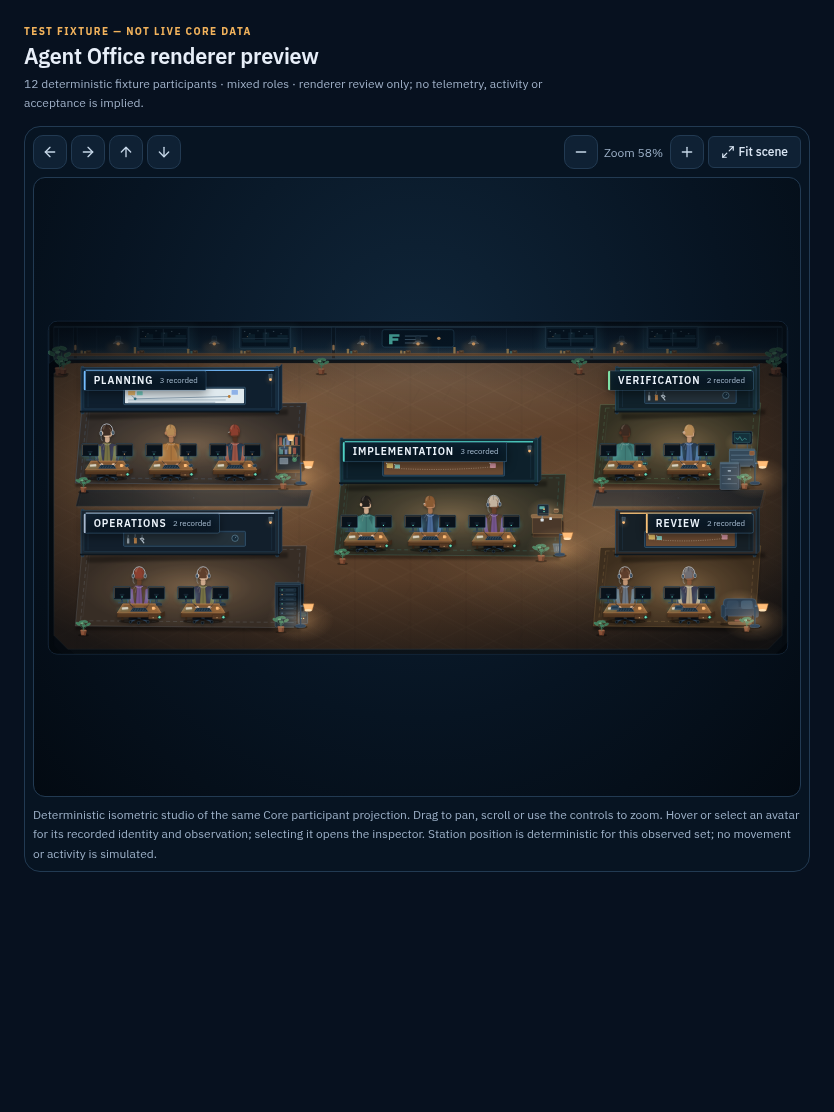
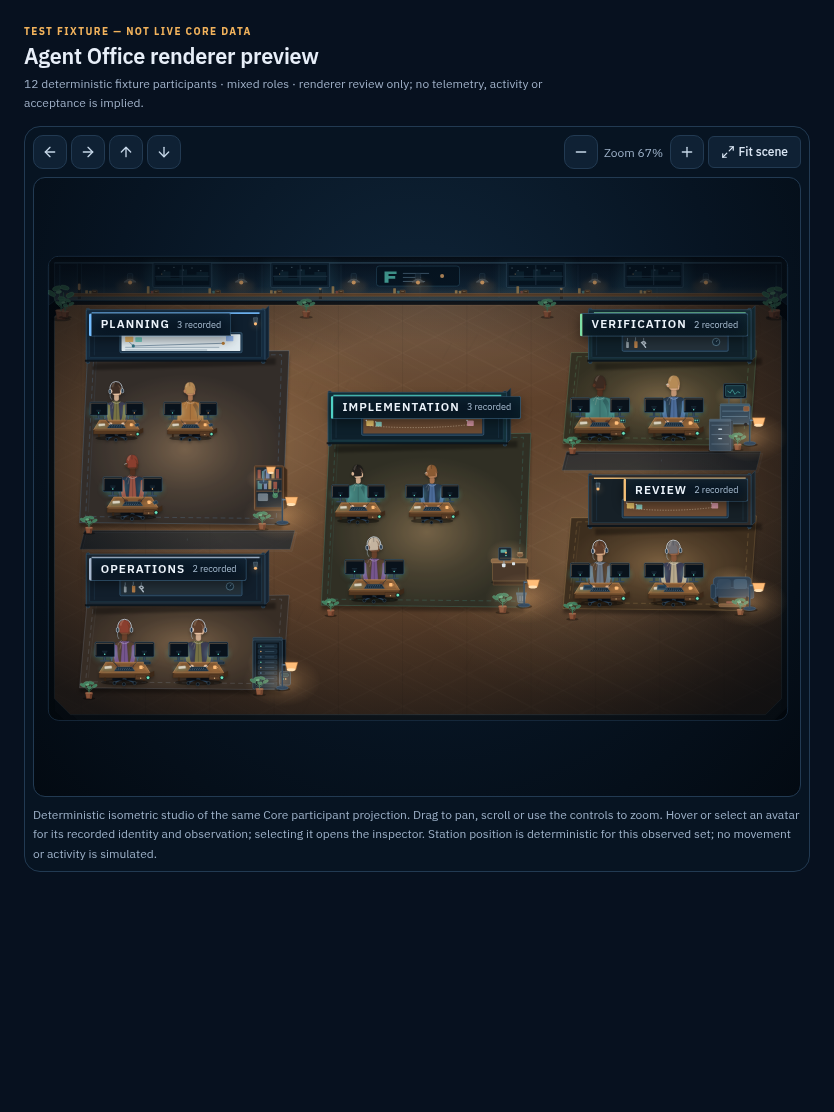
feat(office): add depth to Agent Office crew layout

Changed region(s): [[0.0624, 0.214, 0.9353, 0.6421]]

diff --git a/office/src/components/office/officeSceneLayout.ts b/office/src/components/office/officeSceneLayout.ts
@@ -88,6 +88,8 @@ export interface OfficeSlot {
   anchorY: number;
   /** 1-based depth order; higher values render in front. */
   depth: number;
+  /** Figure scale from the back to front row of its workstation cluster. */
+  perspectiveScale: number;
 }
 
 export interface OfficeZone {
@@ -170,11 +172,12 @@ function clusterOffset(index: number, pitch: number): number {
 
 function groupMetrics(memberCount: number): ZoneMetrics {
   const count = Math.max(1, memberCount);
-  // Small crews sit at one long bench; larger crews use a wide bullpen with
-  // at most eight columns. This keeps the composition horizontal (a studio
-  // reads across, not down) and bounded at 30 seats in four rows.
+  // One or two participants share a compact bench. Larger crews use a
+  // staggered two-row pod, then grow as a wide bullpen with at most eight
+  // columns. Row depth gives the SVG scene a back/front cue without changing
+  // deterministic identity placement.
   const rows =
-    count <= 5 ? 1 : count <= 12 ? 2 : Math.max(1, Math.ceil(count / 8));
+    count <= 2 ? 1 : count <= 12 ? 2 : Math.max(1, Math.ceil(count / 8));
   const columns = Math.min(8, count, Math.max(1, Math.ceil(count / rows)));
   const contentWidth =
     clusterOffset(columns - 1, OFFICE_SLOT_COLUMN) +
@@ -254,6 +257,8 @@ function buildZone(
       anchorX,
       anchorY,
       depth: 0,
+      perspectiveScale:
+        metrics.rows > 1 ? 0.9 + (0.1 * row) / (metrics.rows - 1) : 1,
     };
   });
   return {

diff --git a/office/src/components/office/officeSceneLayout.test.ts b/office/src/components/office/officeSceneLayout.test.ts
@@ -210,6 +210,15 @@ describe("buildOfficeSceneLayout", () => {
     const layout = buildOfficeSceneLayout(implementers(5));
     const zone = layout.zones.find((item) => item.role === "IMPLEMENTER");
     expect(zone?.slots).toHaveLength(5);
+    expect(zone?.rows).toBe(2);
+    expect(zone?.columns).toBe(3);
+    expect(zone?.slots.map((slot) => slot.row)).toEqual([0, 0, 0, 1, 1]);
+    expect(
+      zone?.slots.slice(0, 3).every((slot) => slot.perspectiveScale === 0.9),
+    ).toBe(true);
+    expect(
+      zone?.slots.slice(3).every((slot) => slot.perspectiveScale === 1),
+    ).toBe(true);
     const looks = new Set(
       (zone?.slots ?? []).map(
         (slot) => officeAvatarLook(slot.lookIndex).signature,

diff --git a/office/src/components/office/OfficeAvatar.tsx b/office/src/components/office/OfficeAvatar.tsx
@@ -121,6 +121,7 @@ export function OfficeAvatar({
           top: slot.y - offsetY,
           width: OFFICE_AVATAR_WIDTH,
           height: OFFICE_AVATAR_HEIGHT,
+          "--office-perspective-scale": slot.perspectiveScale.toFixed(2),
           "--office-depth": 10 + slot.depth,
         } as CSSProperties
       }

diff --git a/office/src/styles/agent-office.css b/office/src/styles/agent-office.css
@@ -961,6 +961,8 @@
   width: 92px;
   height: 112px;
   overflow: visible;
+  transform: scale(var(--office-perspective-scale, 1));
+  transform-origin: 50% 100%;
   filter: drop-shadow(0 3px 2px rgb(0 0 0 / 0.28));
 }
 
